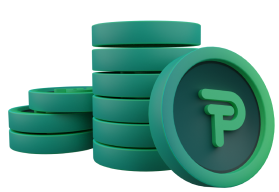
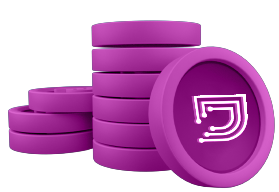
color theme changed

diff --git a/style.css b/style.css
@@ -167,7 +167,7 @@ video {
 .byTheCommu {
   font-size: 20px;
   font-weight: 500;
-  color: #1ac486;
+  color: #cd59c2;
   letter-spacing: 4px;
 }
 .centralisedExc {
@@ -238,7 +238,7 @@ video {
   padding-inline-start: 1rem;
   padding-inline-end: 1rem;
   background: #00000000;
-  color: #1ac486;
+  color: #cd59c2;
   border: 2px solid;
 }
 
@@ -265,7 +265,7 @@ video {
   font-size: 1rem;
   padding-inline-start: 1rem;
   padding-inline-end: 1rem;
-  background: #1ac486;
+  background: #cd59c2;
   color: #ffffff;
   cursor: pointer;
   margin-top: 20px;
@@ -305,7 +305,7 @@ video {
   bottom: 0;
   border-radius: 24px;
   padding: 3px 3px 0;
-  background: linear-gradient(180deg, #1ac486, #1d232e);
+  background: linear-gradient(180deg, #cd59c2, #1d232e);
   -webkit-mask: linear-gradient(#fff 0 0) content-box, linear-gradient(#fff 0 0);
   -webkit-mask-composite: destination-out;
   mask-composite: exclude;
@@ -336,7 +336,7 @@ video {
 }
 .css-12ps3fs {
   font-size: 20px;
-  color: #1ac486;
+  color: #cd59c2;
   font-weight: 400;
 }
 .css-ut3ev8 {
@@ -515,7 +515,7 @@ video {
 }
 .css-rbt7fo {
   font-weight: 500;
-  color: #1ac486;
+  color: #cd59c2;
   font-size: 16px;
   margin-top: 9px;
 }
@@ -545,7 +545,7 @@ video {
   font-size: 16px;
   padding-inline-start: 1rem;
   padding-inline-end: 1rem;
-  background: #1ac486;
+  background: #cd59c2;
   color: #fff;
   margin-top: 24px;
   border: 0px;
@@ -571,12 +571,12 @@ video {
 }
 .css-q4qa8f {
   display: flex;
-  background: #1ac486;
+  background: #cd59c2;
 }
 .divider-style {
   height: 3px;
   width: 100%;
-  box-shadow: 0 0 28px 3px #1ac486;
+  box-shadow: 0 0 28px 3px #cd59c2;
 }
 .css-sz0ygj {
   text-align: center;
@@ -668,7 +668,7 @@ video {
   font-size: 14px;
   padding-inline-start: 1rem;
   padding-inline-end: 1rem;
-  background: #1ac486;
+  background: #cd59c2;
   margin-bottom: 60px;
   color: #fff;
   margin-top: 10px;
@@ -693,7 +693,7 @@ video {
   bottom: 0;
   border-radius: 24px;
   padding: 3px 3px 0;
-  background: linear-gradient(180deg, #1ac486, #1d232e);
+  background: linear-gradient(180deg, #cd59c2, #1d232e);
   -webkit-mask: linear-gradient(#fff 0 0) content-box, linear-gradient(#fff 0 0);
   -webkit-mask-composite: destination-out;
   mask-composite: exclude;
@@ -746,7 +746,7 @@ video {
   font-size: 42px;
   line-height: 46px;
   display: flex;
-  border-left: #1ac486 6px solid;
+  border-left: #cd59c2 6px solid;
   font-weight: 700;
   word-break: break-word;
 }
@@ -791,7 +791,7 @@ video {
   margin-inline: 5px;
   cursor: pointer;
   border-radius: 50%;
-  background-color: #1ac486;
+  background-color: #cd59c2;
   z-index: 9;
 }
 .css-1e21c8u {
@@ -847,9 +847,9 @@ video {
     rgba(45, 55, 72, 0.55)
   );
   border-radius: 24px;
-  border: 3px solid #1ac486;
+  border: 3px solid #cd59c2;
   position: relative;
-  box-shadow: 0 0 10px #1ac486;
+  box-shadow: 0 0 10px #cd59c2;
   animation: animateRightToLeft 1.5s;
   -webkit-animation: animateRightToLeft 1.5s;
   cursor: pointer;
@@ -878,7 +878,7 @@ video {
   outline-offset: 2px;
   margin-top: 12px;
   font-size: 16px;
-  color: #1ac486;
+  color: #cd59c2;
   cursor: pointer;
 }
 .css-u15w9w {
@@ -905,7 +905,7 @@ video {
   outline-offset: 2px;
   margin-top: 12px;
   font-size: 16px;
-  color: #1ac486;
+  color: #cd59c2;
   cursor: pointer;
 }
 
@@ -974,7 +974,7 @@ video {
 }
 .border-gradient-referral {
   position: relative;
-  box-shadow: 0 -5px 10px -5px #1ac486;
+  box-shadow: 0 -5px 10px -5px #cd59c2;
 }
 .border-gradient-referral:before {
   content: '';
@@ -985,7 +985,7 @@ video {
   bottom: 0;
   border-radius: 24px;
   padding: 3px 3px 0;
-  background: linear-gradient(180deg, #1ac486, rgba(7, 126, 83, 0));
+  background: linear-gradient(180deg, #cd59c2, rgba(7, 126, 83, 0));
   -webkit-mask: linear-gradient(#fff 0 0) content-box, linear-gradient(#fff 0 0);
   -webkit-mask-composite: destination-out;
   mask-composite: exclude;
@@ -1141,7 +1141,7 @@ video {
   position: absolute;
   bottom: -20px;
   height: 56px;
-  background: #1ac486;
+  background: #cd59c2;
   font-weight: 500;
   font-size: 16px;
   cursor: pointer;
@@ -1156,7 +1156,7 @@ video {
   -webkit-box-pack: justify;
   justify-content: space-between;
   width: 100%;
-  background: rgb(68, 81, 165);
+  background: #49005b;
   position: relative;
   z-index: 9;
 }
@@ -1208,7 +1208,7 @@ video {
   font-size: 16px;
   font-weight: 500;
   color: #fff;
-  background: #1ac486;
+  background: #cd59c2;
   padding-top: 10px;
   padding-bottom: 10px;
   cursor: pointer;
@@ -1331,7 +1331,7 @@ source {
   font-size: 1rem;
   padding-inline-start: 1rem;
   padding-inline-end: 1rem;
-  background: #1ac486;
+  background: #cd59c2;
   margin-inline: auto;
   padding-top: 32px;
   padding-bottom: 32px;

diff --git a/index.html b/index.html
@@ -401,7 +401,7 @@
                 <p class="chakra-text css-1xvqum8">Refer your friends and other users and earn a 5% commission on their
                     staking rewards</p>
             </div>
-            <div class="css-1e1vsd9"><img class="chakra-image css-0" src="images/referral_program.svg"></div>
+            <div class="css-1e1vsd9"><img class="chakra-image css-0" src="images/referral_program.png"></div>
         </div>
         <div class="border-gradient-referral css-15bpm0o">
             <div class="css-1l4w6pd">
